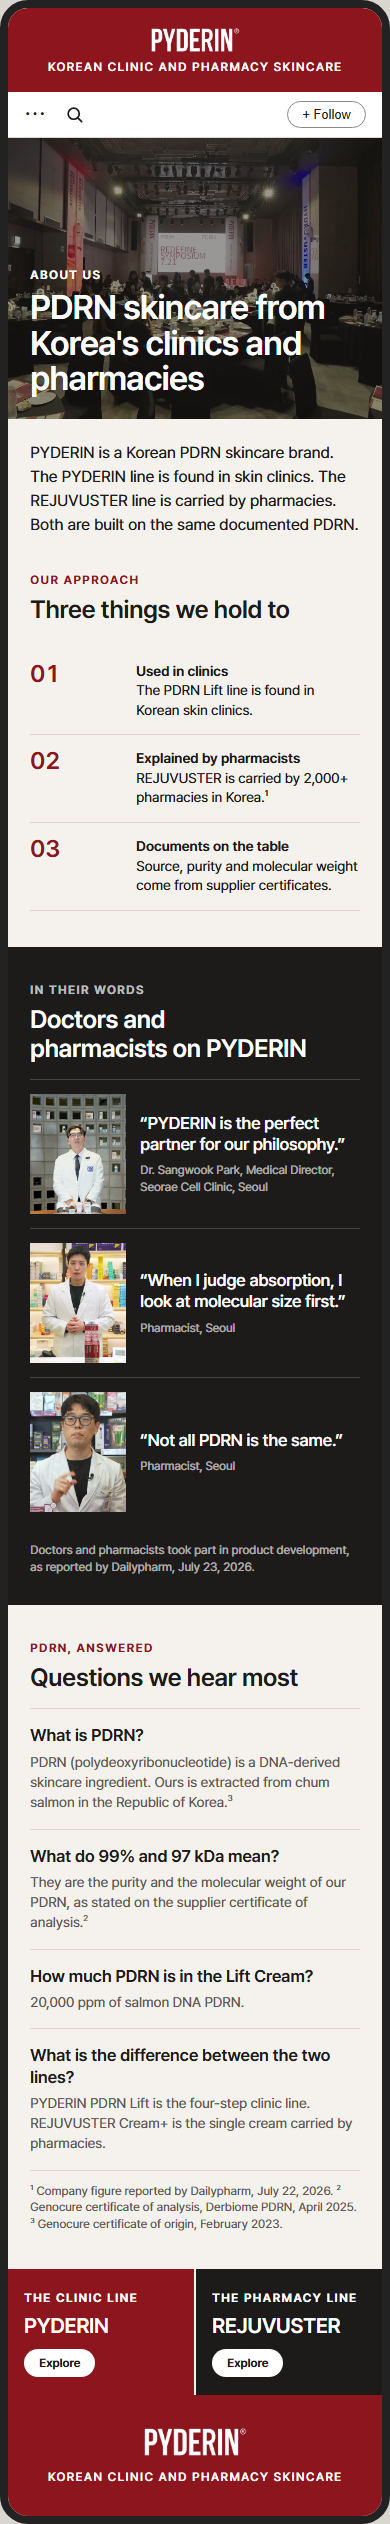
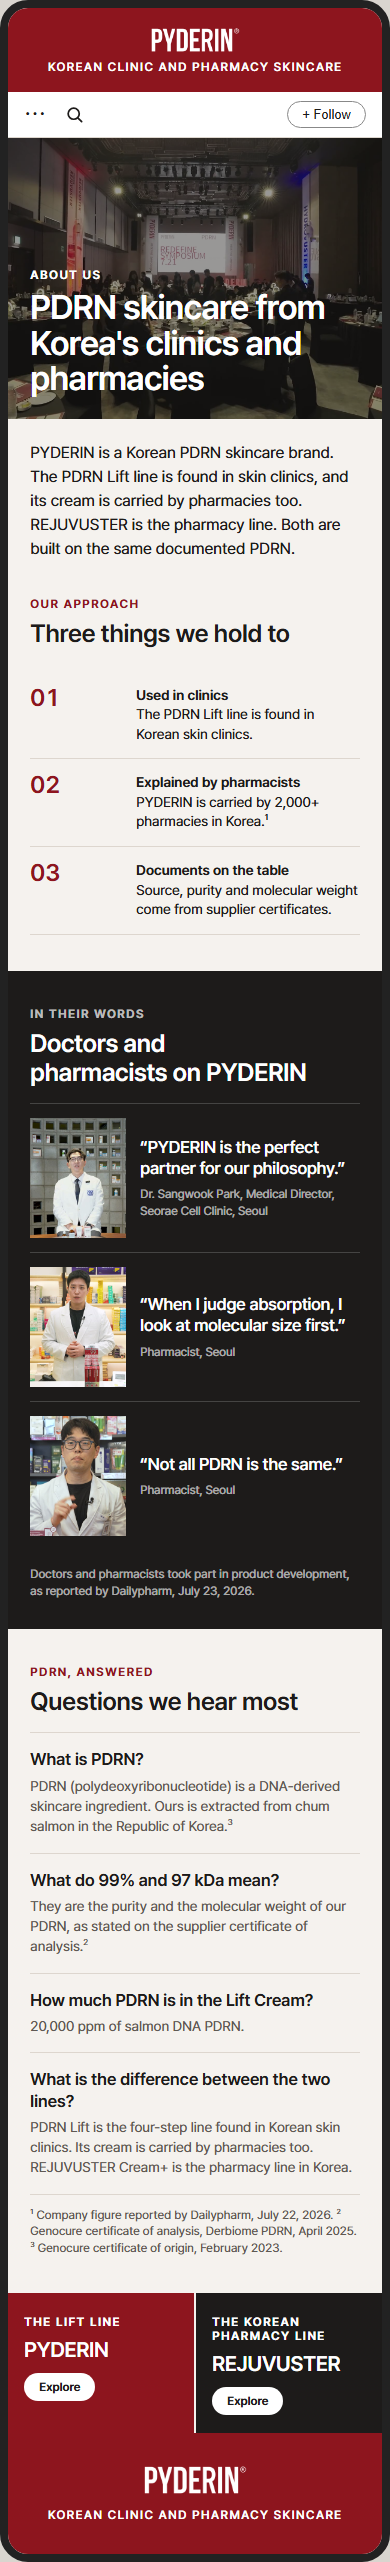
라인 이름 정정: clinic line 표기 삭제(크림은 약국에서도 판매), 리쥬부스터는 Korean pharmacy line

diff --git a/review/index.html b/review/index.html
@@ -100,8 +100,8 @@
 <tr><td>11-3</td><td class="pos">상품 목록</td><td class="ko">(아마존 상품 목록 칸 — 상품명·가격·별점은 아마존이 자동 표시)</td><td class="en">(Amazon product grid)</td><td class="src">리쥬란·코스알엑스·조선미녀 Shop All과 같은 방식</td><td class="ask">이 페이지와 라인 페이지에서는 가격이 보입니다. 괜찮은지</td><td class="box"></td><td class="box"></td></tr>
 </table></div></div>
 <div class="blk"><div><h2>12. PYDERIN 페이지 (병의원 라인)</h2><img src="sec/s12.png" alt=""></div><div class="scroll"><table><tr><th>번호</th><th>위치</th><th>국문 원문</th><th>영문 (가안)</th><th>근거·출처</th><th>확인 요청 사항</th><th>상품기획팀 확인</th><th>해외영업팀 영문 검수</th></tr>
-<tr><td>12-1</td><td class="pos">꼬리표 · 제목</td><td class="ko">병의원 라인 · 피더린 PDRN 리프트</td><td class="en">THE CLINIC LINE · PYDERIN PDRN Lift</td><td class="src">소개서 5쪽 병의원 전용라인</td><td class="ask">미국에서 &quot;clinic line&quot;이라고 불러도 되는지</td><td class="box"></td><td class="box"></td></tr>
-<tr><td>12-2</td><td class="pos">한 문장</td><td class="ko">한국 피부과·의원에서 만나는 네 단계.</td><td class="en">Four steps found in Korean skin clinics.</td><td class="src">소개서 병의원 라인 4종</td><td class="ask">4종 모두 병의원 입점 제품이 맞는지</td><td class="box"></td><td class="box"></td></tr>
+<tr><td>12-1</td><td class="pos">꼬리표 · 제목</td><td class="ko">리프트 라인 · 피더린 PDRN 리프트</td><td class="en">THE LIFT LINE · PYDERIN PDRN Lift</td><td class="src">사장님 정정(11/11): 크림은 약국에서도 판매 → &#x27;병의원 라인&#x27; 이름은 쓰지 않음</td><td class="ask"></td><td class="box"></td><td class="box"></td></tr>
+<tr><td>12-2</td><td class="pos">한 문장</td><td class="ko">한국 피부과·의원에서 만나는 네 단계.</td><td class="en">Four steps found in Korean skin clinics.</td><td class="src">소개서 병의원 라인 4종</td><td class="ask">4종 모두 병의원 입점 제품이 맞는지. 약국에서도 파는 제품은 크림뿐인지</td><td class="box"></td><td class="box"></td></tr>
 <tr><td>12-3</td><td class="pos">배너 사진</td><td class="ko">(병원 카운터에 진열된 피더린 제품 사진)</td><td class="en">(photo)</td><td class="src">병원 촬영본</td><td class="ask">사진 속 국문 포장·안내물이 보여도 되는지, 병원 사용 동의</td><td class="box"></td><td class="box"></td></tr>
 <tr><td>12-4</td><td class="pos">소제목</td><td class="ko">네 단계 · 각각의 역할</td><td class="en">THE FOUR STEPS · What each one does</td><td class="src"></td><td class="ask"></td><td class="box"></td><td class="box"></td></tr>
 <tr><td>12-5</td><td class="pos">01 토너</td><td class="ko">첫 단계. 수분을 채우고 다음 단계를 위해 피부를 정돈합니다.</td><td class="en">The first layer. Hydrates and preps skin for the steps that follow.</td><td class="src">미국 상세페이지 사용 순서</td><td class="ask">토너 설명으로 맞는지</td><td class="box"></td><td class="box"></td></tr>
@@ -113,10 +113,10 @@
 <tr><td>12-11</td><td class="pos">사진 설명 2</td><td class="ko">서울의 한 피부과 내부.</td><td class="en">Inside a Seoul skin clinic.</td><td class="src">병원 촬영본</td><td class="ask">병원 사용 동의</td><td class="box"></td><td class="box"></td></tr>
 <tr><td>12-12</td><td class="pos">사진 설명 3</td><td class="ko">관리 전 상담.</td><td class="en">Consultation before care.</td><td class="src">병원 촬영본</td><td class="ask">병원·인물 사용 동의</td><td class="box"></td><td class="box"></td></tr>
 <tr><td>12-13</td><td class="pos">상품 목록 제목</td><td class="ko">라인 상품 · PDRN 리프트</td><td class="en">SHOP THE LINE · PDRN Lift</td><td class="src"></td><td class="ask"></td><td class="box"></td><td class="box"></td></tr>
-<tr><td>12-14</td><td class="pos">아래 이동 칸</td><td class="ko">약국 라인 · 리쥬부스터 크림+ · 리쥬부스터 보기</td><td class="en">THE PHARMACY LINE · REJUVUSTER Cream+ · Explore REJUVUSTER</td><td class="src">코스알엑스 라인 페이지 방식</td><td class="ask"></td><td class="box"></td><td class="box"></td></tr>
+<tr><td>12-14</td><td class="pos">아래 이동 칸</td><td class="ko">한국 약국 라인 · 리쥬부스터 크림+ · 리쥬부스터 보기</td><td class="en">THE KOREAN PHARMACY LINE · REJUVUSTER Cream+ · Explore REJUVUSTER</td><td class="src">코스알엑스 라인 페이지 방식</td><td class="ask"></td><td class="box"></td><td class="box"></td></tr>
 </table></div></div>
 <div class="blk"><div><h2>13. REJUVUSTER 페이지 (약국 라인)</h2><img src="sec/s13.png" alt=""></div><div class="scroll"><table><tr><th>번호</th><th>위치</th><th>국문 원문</th><th>영문 (가안)</th><th>근거·출처</th><th>확인 요청 사항</th><th>상품기획팀 확인</th><th>해외영업팀 영문 검수</th></tr>
-<tr><td>13-1</td><td class="pos">꼬리표 · 제목</td><td class="ko">약국 라인 · 리쥬부스터 크림+</td><td class="en">THE PHARMACY LINE · REJUVUSTER Cream+</td><td class="src">소개서 약국 라인</td><td class="ask">미국에서 &quot;pharmacy line&quot;이라고 불러도 되는지 (미국 약국 판매로 오해될 여지)</td><td class="box"></td><td class="box"></td></tr>
+<tr><td>13-1</td><td class="pos">꼬리표 · 제목</td><td class="ko">한국 약국 라인 · 리쥬부스터 크림+</td><td class="en">THE KOREAN PHARMACY LINE · REJUVUSTER Cream+</td><td class="src">사장님 확인(11/11): 리쥬부스터는 약국 전용</td><td class="ask">미국 약국 판매로 오해되지 않게 &#x27;Korean&#x27;을 붙였습니다. 표현이 괜찮은지</td><td class="box"></td><td class="box"></td></tr>
 <tr><td>13-2</td><td class="pos">한 문장</td><td class="ko">한국 전역의 약국에서 취급하는 PDRN 크림.</td><td class="en">The PDRN cream carried by pharmacies across Korea.</td><td class="src">데일리팜 2026-07-22</td><td class="ask">&quot;전역&quot; 표현이 맞는지</td><td class="box"></td><td class="box"></td></tr>
 <tr><td>13-3</td><td class="pos">소제목</td><td class="ko">카운터 뒤에서 · 약사가 PDRN에서 확인하는 세 가지</td><td class="en">BEHIND THE COUNTER · Three things pharmacists check in PDRN</td><td class="src">약사 인터뷰(베리뉴약국·별하약국) 발언</td><td class="ask">약사 발언을 일반화해 써도 되는지</td><td class="box"></td><td class="box"></td></tr>
 <tr><td>13-4</td><td class="pos">01 출처</td><td class="ko">대한민국 연어에서 추출.</td><td class="en">Source — Extracted from chum salmon in the Republic of Korea.</td><td class="src">제노큐어 원산지 증명서</td><td class="ask">리쥬부스터 크림+도 같은 원료를 쓰는지</td><td class="box"></td><td class="box"></td></tr>
@@ -126,14 +126,14 @@
 <tr><td>13-8</td><td class="pos">소제목</td><td class="ko">약국에서 · 한국에서 사는 곳</td><td class="en">IN THE PHARMACY · Where Korea picks it up</td><td class="src"></td><td class="ask"></td><td class="box"></td><td class="box"></td></tr>
 <tr><td>13-9</td><td class="pos">사진 설명 1</td><td class="ko">한국 약국 진열대.</td><td class="en">On the shelf at a Korean pharmacy.</td><td class="src">약국 촬영본</td><td class="ask">사진 속 국문 포장·&quot;99&quot; 안내물이 보여도 되는지</td><td class="box"></td><td class="box"></td></tr>
 <tr><td>13-10</td><td class="pos">사진 설명 2</td><td class="ko">카운터에서 약사가 설명.</td><td class="en">Explained at the counter by a pharmacist.</td><td class="src">명동K약국 약사 인터뷰 영상</td><td class="ask">약사·약국 사용 동의</td><td class="box"></td><td class="box"></td></tr>
-<tr><td>13-11</td><td class="pos">아래 이동 칸</td><td class="ko">병의원 라인 · 피더린 PDRN 리프트 · 피더린 보기</td><td class="en">THE CLINIC LINE · PYDERIN PDRN Lift · Explore PYDERIN</td><td class="src"></td><td class="ask"></td><td class="box"></td><td class="box"></td></tr>
+<tr><td>13-11</td><td class="pos">아래 이동 칸</td><td class="ko">리프트 라인 · 피더린 PDRN 리프트 · 피더린 보기</td><td class="en">THE LIFT LINE · PYDERIN PDRN Lift · Explore PYDERIN</td><td class="src"></td><td class="ask"></td><td class="box"></td><td class="box"></td></tr>
 </table></div></div>
 <div class="blk"><div><h2>14. ABOUT US 페이지</h2><img src="sec/s14.png" alt=""></div><div class="scroll"><table><tr><th>번호</th><th>위치</th><th>국문 원문</th><th>영문 (가안)</th><th>근거·출처</th><th>확인 요청 사항</th><th>상품기획팀 확인</th><th>해외영업팀 영문 검수</th></tr>
 <tr><td>14-1</td><td class="pos">꼬리표 · 제목</td><td class="ko">브랜드 소개 · 한국 병의원과 약국에서 온 PDRN 스킨케어</td><td class="en">ABOUT US · PDRN skincare from Korea&#x27;s clinics and pharmacies</td><td class="src">소개서 병의원·약국 라인</td><td class="ask"></td><td class="box"></td><td class="box"></td></tr>
-<tr><td>14-2</td><td class="pos">소개 글</td><td class="ko">피더린은 한국의 PDRN 스킨케어 브랜드입니다. 피더린 라인은 피부과·의원에서, 리쥬부스터 라인은 약국에서 만날 수 있습니다. 두 라인 모두 같은 서류로 확인된 PDRN을 씁니다.</td><td class="en">PYDERIN is a Korean PDRN skincare brand. The PYDERIN line is found in skin clinics. The REJUVUSTER line is carried by pharmacies. Both are built on the same documented PDRN.</td><td class="src">소개서, 원료사 서류</td><td class="ask">두 라인이 같은 PDRN 원료를 쓰는지</td><td class="box"></td><td class="box"></td></tr>
+<tr><td>14-2</td><td class="pos">소개 글</td><td class="ko">피더린은 한국의 PDRN 스킨케어 브랜드입니다. PDRN 리프트 라인은 피부과·의원에서 만날 수 있고, 크림은 약국에서도 취급합니다. 리쥬부스터는 약국 라인입니다. 두 라인 모두 같은 서류로 확인된 PDRN을 씁니다.</td><td class="en">PYDERIN is a Korean PDRN skincare brand. The PDRN Lift line is found in skin clinics, and its cream is carried by pharmacies too. REJUVUSTER is the pharmacy line. Both are built on the same documented PDRN.</td><td class="src">소개서, 원료사 서류</td><td class="ask">두 라인이 같은 PDRN 원료를 쓰는지</td><td class="box"></td><td class="box"></td></tr>
 <tr><td>14-3</td><td class="pos">소제목</td><td class="ko">우리의 방식 · 지키는 세 가지</td><td class="en">OUR APPROACH · Three things we hold to</td><td class="src">리쥬올 About 페이지 방식</td><td class="ask"></td><td class="box"></td><td class="box"></td></tr>
 <tr><td>14-4</td><td class="pos">01</td><td class="ko">병의원에서 씁니다 — PDRN 리프트 라인은 한국 피부과·의원에서 만날 수 있습니다.</td><td class="en">Used in clinics — The PDRN Lift line is found in Korean skin clinics.</td><td class="src">소개서 5쪽</td><td class="ask">2-3번과 같은 확인</td><td class="box"></td><td class="box"></td></tr>
-<tr><td>14-5</td><td class="pos">02</td><td class="ko">약사가 설명합니다 — 리쥬부스터는 한국 약국 2,000곳 이상에서 취급합니다.</td><td class="en">Explained by pharmacists — REJUVUSTER is carried by 2,000+ pharmacies in Korea.</td><td class="src">데일리팜 2026-07-22</td><td class="ask">2,000곳이 리쥬부스터 기준인지 피더린 전체 기준인지 (메인은 &quot;PYDERIN&quot;으로 표기)</td><td class="box"></td><td class="box"></td></tr>
+<tr><td>14-5</td><td class="pos">02</td><td class="ko">약사가 설명합니다 — 피더린은 한국 약국 2,000곳 이상에서 취급합니다.</td><td class="en">Explained by pharmacists — PYDERIN is carried by 2,000+ pharmacies in Korea.</td><td class="src">데일리팜 2026-07-22</td><td class="ask">메인 4번 칸과 같은 표기</td><td class="box"></td><td class="box"></td></tr>
 <tr><td>14-6</td><td class="pos">03</td><td class="ko">서류를 공개합니다 — 출처, 순도, 분자량은 원료사 증명서에 따릅니다.</td><td class="en">Documents on the table — Source, purity and molecular weight come from supplier certificates.</td><td class="src">제노큐어 서류</td><td class="ask"></td><td class="box"></td><td class="box"></td></tr>
 <tr><td>14-7</td><td class="pos">소제목</td><td class="ko">그들의 말 · 의사와 약사가 말하는 피더린</td><td class="en">IN THEIR WORDS · Doctors and pharmacists on PYDERIN</td><td class="src">메디큐브 기기 페이지의 전문가 3명 방식</td><td class="ask">세 분 모두 사용 동의가 필요. 동의가 없는 분은 뺍니다</td><td class="box"></td><td class="box"></td></tr>
 <tr><td>14-8</td><td class="pos">한마디 1</td><td class="ko">&quot;피더린은 저희 철학과 가장 잘 맞는 파트너라고 생각합니다.&quot; — 박상욱 대표원장, 서래셀클리닉, 서울</td><td class="en">&quot;PYDERIN is the perfect partner for our philosophy.&quot; — Dr. Sangwook Park, Medical Director, Seorae Cell Clinic, Seoul</td><td class="src">원장 인터뷰 원본 영상</td><td class="ask">4-3, 4-4번과 같은 확인</td><td class="box"></td><td class="box"></td></tr>
@@ -144,8 +144,8 @@
 <tr><td>14-13</td><td class="pos">질문 1</td><td class="ko">PDRN이 무엇인가요? — PDRN(폴리데옥시리보뉴클레오타이드)은 DNA에서 얻는 스킨케어 성분입니다. 피더린의 PDRN은 대한민국 연어에서 추출합니다.</td><td class="en">What is PDRN? — PDRN (polydeoxyribonucleotide) is a DNA-derived skincare ingredient. Ours is extracted from chum salmon in the Republic of Korea.</td><td class="src">제노큐어 원산지 증명서</td><td class="ask">성분 설명 표현이 맞는지</td><td class="box"></td><td class="box"></td></tr>
 <tr><td>14-14</td><td class="pos">질문 2</td><td class="ko">99%와 97kDa는 무슨 뜻인가요? — 원료사 시험성적서에 적힌 우리 PDRN의 순도와 분자량입니다.</td><td class="en">What do 99% and 97 kDa mean? — They are the purity and the molecular weight of our PDRN, as stated on the supplier certificate of analysis.</td><td class="src">제노큐어 시험성적서</td><td class="ask">7-2, 7-3번과 같은 확인</td><td class="box"></td><td class="box"></td></tr>
 <tr><td>14-15</td><td class="pos">질문 3</td><td class="ko">리프트 크림에는 PDRN이 얼마나 들어 있나요? — 연어 DNA PDRN 20,000ppm.</td><td class="en">How much PDRN is in the Lift Cream? — 20,000 ppm of salmon DNA PDRN.</td><td class="src">미국 상품 페이지 제목</td><td class="ask">2-4번과 같은 확인. 다른 브랜드와 비교하지 않고 숫자만 적었습니다</td><td class="box"></td><td class="box"></td></tr>
-<tr><td>14-16</td><td class="pos">질문 4</td><td class="ko">두 라인은 무엇이 다른가요? — 피더린 PDRN 리프트는 네 단계의 병의원 라인, 리쥬부스터 크림+는 약국에서 취급하는 크림 한 종입니다.</td><td class="en">What is the difference between the two lines? — PYDERIN PDRN Lift is the four-step clinic line. REJUVUSTER Cream+ is the single cream carried by pharmacies.</td><td class="src">소개서</td><td class="ask">12월 추가 리스팅 뒤 바뀔 내용인지</td><td class="box"></td><td class="box"></td></tr>
-<tr><td>14-17</td><td class="pos">아래 이동 칸</td><td class="ko">병의원 라인 피더린 / 약국 라인 리쥬부스터 · 보기</td><td class="en">THE CLINIC LINE PYDERIN / THE PHARMACY LINE REJUVUSTER · Explore</td><td class="src"></td><td class="ask"></td><td class="box"></td><td class="box"></td></tr>
+<tr><td>14-16</td><td class="pos">질문 4</td><td class="ko">두 라인은 무엇이 다른가요? — PDRN 리프트는 한국 피부과·의원에서 만나는 네 단계 라인이고, 크림은 약국에서도 취급합니다. 리쥬부스터 크림+는 한국의 약국 라인입니다.</td><td class="en">What is the difference between the two lines? — PDRN Lift is the four-step line found in Korean skin clinics. Its cream is carried by pharmacies too. REJUVUSTER Cream+ is the pharmacy line in Korea.</td><td class="src">소개서</td><td class="ask">12월 추가 리스팅 뒤 바뀔 내용인지</td><td class="box"></td><td class="box"></td></tr>
+<tr><td>14-17</td><td class="pos">아래 이동 칸</td><td class="ko">리프트 라인 피더린 / 한국 약국 라인 리쥬부스터 · 보기</td><td class="en">THE LIFT LINE PYDERIN / THE KOREAN PHARMACY LINE REJUVUSTER · Explore</td><td class="src"></td><td class="ask"></td><td class="box"></td><td class="box"></td></tr>
 </table></div></div>
 <div class="blk"><div><h2>영상 자막 (4번 칸 병원·약국 영상, 39초)</h2><img src="sec/video.jpg" alt=""></div><div class="scroll"><table><tr><th>번호</th><th>말하는 사람</th><th>국문 원문 (실제 발언)</th><th>영문 자막 (가안)</th><th>확인 요청 사항</th><th>상품기획팀 확인</th><th>해외영업팀 영문 검수</th></tr>
 <tr><td>V-1</td><td class="pos">원장</td><td class="ko">서울 서래셀 클리닉 대표원장 박상욱입니다.</td><td class="en">I&#x27;m Dr. Sangwook Park, Medical Director of Seorae Cell Clinic.</td><td class="ask"></td><td class="box"></td><td class="box"></td></tr>

diff --git a/index.html b/index.html
@@ -350,7 +350,7 @@
   <div class="sec"><div class="band"><span class="eyebrow">PYDERIN and REJUVUSTER</span><h2>Shop All</h2><p>Every PDRN product in the lineup.</p></div></div>
   <div class="sec az"><div class="grid"><div class="card"><img class="pk" src="img/m-cream.jpg" alt="">PYDERIN PDRN Lift Cream, 30 ml<br><span class="stars">★★★★★</span><span class="price">Price shown by Amazon</span><span class="buy">Add to Cart</span></div><div class="card"><img class="pk" src="img/m-toner.jpg" alt="">PYDERIN PDRN Lift Toner, 100 ml<br><span class="stars">★★★★★</span><span class="price">Price shown by Amazon</span><span class="buy">Add to Cart</span></div><div class="card"><img class="pk" src="img/ampoule.jpg" alt="">PYDERIN PDRN Lift Fit Ampoule, 30 ml<br><span class="stars">★★★★★</span><span class="price">Price shown by Amazon</span><span class="buy">Add to Cart</span></div><div class="card"><img class="pk" src="img/mask.jpg" alt="">PYDERIN PDRN Lift Facial Mask, 5 sheets<br><span class="stars">★★★★★</span><span class="price">Price shown by Amazon</span><span class="buy">Add to Cart</span></div><div class="card"><img class="pk" src="img/m-rejuvuster.jpg" alt="">PYDERIN REJUVUSTER Cream+, 25 ml<br><span class="stars">★★★★★</span><span class="price">Price shown by Amazon</span><span class="buy">Add to Cart</span></div></div><div class="aznote">아마존 상품 목록 칸 — 가격·별점·버튼은 아마존이 자동으로 채움</div></div>
   <div class="sec"><div class="end"><img src="img/logo-white.png" alt="PYDERIN" style="height:30px"><small>Korean clinic and pharmacy skincare</small></div></div></div><div class="page" id="pyderin">
-  <div class="sec"><div class="band"><span class="eyebrow">The clinic line</span><h2>PYDERIN<br>PDRN Lift</h2><p>Four steps found in Korean skin clinics.</p></div>
+  <div class="sec"><div class="band"><span class="eyebrow">The Lift line</span><h2>PYDERIN<br>PDRN Lift</h2><p>Four steps found in Korean skin clinics.</p></div>
     <img src="img/pick/c5.jpg" alt="" style="display:block;width:100%;aspect-ratio:16/11;object-fit:cover;object-position:50% 42%"></div>
   <div class="sec"><div class="title"><span class="eyebrow">The four steps</span><h3>What each one does</h3></div>
     <div class="roles">
@@ -367,9 +367,9 @@
     </div></div>
   <div class="sec"><div class="title"><span class="eyebrow">Shop the line</span><h3>PDRN Lift</h3></div></div>
   <div class="sec az"><div class="grid"><div class="card"><img class="pk" src="img/m-cream.jpg" alt="">PYDERIN PDRN Lift Cream, 30 ml<br><span class="stars">★★★★★</span><span class="price">Price shown by Amazon</span><span class="buy">Add to Cart</span></div><div class="card"><img class="pk" src="img/m-toner.jpg" alt="">PYDERIN PDRN Lift Toner, 100 ml<br><span class="stars">★★★★★</span><span class="price">Price shown by Amazon</span><span class="buy">Add to Cart</span></div><div class="card"><img class="pk" src="img/ampoule.jpg" alt="">PYDERIN PDRN Lift Fit Ampoule, 30 ml<br><span class="stars">★★★★★</span><span class="price">Price shown by Amazon</span><span class="buy">Add to Cart</span></div><div class="card"><img class="pk" src="img/mask.jpg" alt="">PYDERIN PDRN Lift Facial Mask, 5 sheets<br><span class="stars">★★★★★</span><span class="price">Price shown by Amazon</span><span class="buy">Add to Cart</span></div></div><div class="aznote">아마존 상품 목록 칸 — 가격·별점·버튼은 아마존이 자동으로 채움</div></div>
-  <a class="xt" href="#rejuvuster"><span class="eyebrow">The pharmacy line</span><b>REJUVUSTER<br>Cream+</b><u>Explore REJUVUSTER</u></a>
+  <a class="xt" href="#rejuvuster"><span class="eyebrow">The Korean pharmacy line</span><b>REJUVUSTER<br>Cream+</b><u>Explore REJUVUSTER</u></a>
   <div class="sec"><div class="end"><img src="img/logo-white.png" alt="PYDERIN" style="height:30px"><small>Korean clinic and pharmacy skincare</small></div></div></div><div class="page" id="rejuvuster">
-  <div class="sec"><div class="wband"><span class="eyebrow">The pharmacy line</span><h2>REJUVUSTER<br>Cream+</h2><p>The PDRN cream carried by pharmacies across Korea.</p><img src="img/m-rejuvuster.jpg" alt=""></div>
+  <div class="sec"><div class="wband"><span class="eyebrow">The Korean pharmacy line</span><h2>REJUVUSTER<br>Cream+</h2><p>The PDRN cream carried by pharmacies across Korea.</p><img src="img/m-rejuvuster.jpg" alt=""></div>
     <span class="cta" style="margin-top:0">Shop now</span></div>
   <div class="sec dark" style="margin-top:36px"><div class="title"><span class="eyebrow">Behind the counter</span><h3>Three things pharmacists check in PDRN</h3></div>
     <div class="rows">
@@ -385,14 +385,14 @@
     </div></div>
   <div class="sec"><div class="title" style="padding-top:26px"><span class="eyebrow">Shop the line</span><h3>REJUVUSTER</h3></div></div>
   <div class="sec az"><div class="grid"><div class="card"><img class="pk" src="img/m-rejuvuster.jpg" alt="">PYDERIN REJUVUSTER Cream+, 25 ml<br><span class="stars">★★★★★</span><span class="price">Price shown by Amazon</span><span class="buy">Add to Cart</span></div></div><div class="aznote">아마존 상품 목록 칸 — 가격·별점·버튼은 아마존이 자동으로 채움</div></div>
-  <a class="xt" href="#pyderin" style="background:var(--red)"><span class="eyebrow">The clinic line</span><b>PYDERIN<br>PDRN Lift</b><u>Explore PYDERIN</u></a>
+  <a class="xt" href="#pyderin" style="background:var(--red)"><span class="eyebrow">The Lift line</span><b>PYDERIN<br>PDRN Lift</b><u>Explore PYDERIN</u></a>
   <div class="sec"><div class="end"><img src="img/logo-white.png" alt="PYDERIN" style="height:30px"><small>Korean clinic and pharmacy skincare</small></div></div></div><div class="page" id="about">
   <div class="sec"><div class="intro"><img src="img/hall.jpg" alt=""><div><span class="eyebrow">About us</span><h2>PDRN skincare from Korea's clinics and pharmacies</h2></div></div>
-    <p class="lead" style="margin:0">PYDERIN is a Korean PDRN skincare brand. The PYDERIN line is found in skin clinics. The REJUVUSTER line is carried by pharmacies. Both are built on the same documented PDRN.</p></div>
+    <p class="lead" style="margin:0">PYDERIN is a Korean PDRN skincare brand. The PDRN Lift line is found in skin clinics, and its cream is carried by pharmacies too. REJUVUSTER is the pharmacy line. Both are built on the same documented PDRN.</p></div>
   <div class="sec"><div class="title"><span class="eyebrow">Our approach</span><h3>Three things we hold to</h3></div>
     <div class="rows3">
       <div><b>01</b><span><strong>Used in clinics</strong>The PDRN Lift line is found in Korean skin clinics.</span></div>
-      <div><b>02</b><span><strong>Explained by pharmacists</strong>REJUVUSTER is carried by 2,000+ pharmacies in Korea.<sup>1</sup></span></div>
+      <div><b>02</b><span><strong>Explained by pharmacists</strong>PYDERIN is carried by 2,000+ pharmacies in Korea.<sup>1</sup></span></div>
       <div><b>03</b><span><strong>Documents on the table</strong>Source, purity and molecular weight come from supplier certificates.</span></div>
     </div></div>
   <div class="sec dark" style="margin-top:36px"><div class="title"><span class="eyebrow">In their words</span><h3>Doctors and pharmacists on PYDERIN</h3></div>
@@ -407,10 +407,10 @@
       <div><b>What is PDRN?</b><span>PDRN (polydeoxyribonucleotide) is a DNA-derived skincare ingredient. Ours is extracted from chum salmon in the Republic of Korea.<sup>3</sup></span></div>
       <div><b>What do 99% and 97 kDa mean?</b><span>They are the purity and the molecular weight of our PDRN, as stated on the supplier certificate of analysis.<sup>2</sup></span></div>
       <div><b>How much PDRN is in the Lift Cream?</b><span>20,000 ppm of salmon DNA PDRN.</span></div>
-      <div><b>What is the difference between the two lines?</b><span>PYDERIN PDRN Lift is the four-step clinic line. REJUVUSTER Cream+ is the single cream carried by pharmacies.</span></div>
+      <div><b>What is the difference between the two lines?</b><span>PDRN Lift is the four-step line found in Korean skin clinics. Its cream is carried by pharmacies too. REJUVUSTER Cream+ is the pharmacy line in Korea.</span></div>
     </div>
     <div class="note"><sup>1</sup> Company figure reported by Dailypharm, July 22, 2026. <sup>2</sup> Genocure certificate of analysis, Derbiome PDRN, April 2025. <sup>3</sup> Genocure certificate of origin, February 2023.</div></div>
-  <div class="tiles"><a href="#pyderin"><span class="eyebrow">The clinic line</span><b>PYDERIN</b><u>Explore</u></a><a href="#rejuvuster"><span class="eyebrow">The pharmacy line</span><b>REJUVUSTER</b><u>Explore</u></a></div>
+  <div class="tiles"><a href="#pyderin"><span class="eyebrow">The Lift line</span><b>PYDERIN</b><u>Explore</u></a><a href="#rejuvuster"><span class="eyebrow">The Korean pharmacy line</span><b>REJUVUSTER</b><u>Explore</u></a></div>
   <div class="sec"><div class="end"><img src="img/logo-white.png" alt="PYDERIN" style="height:30px"><small>Korean clinic and pharmacy skincare</small></div></div></div>
   </div>
 </div>
